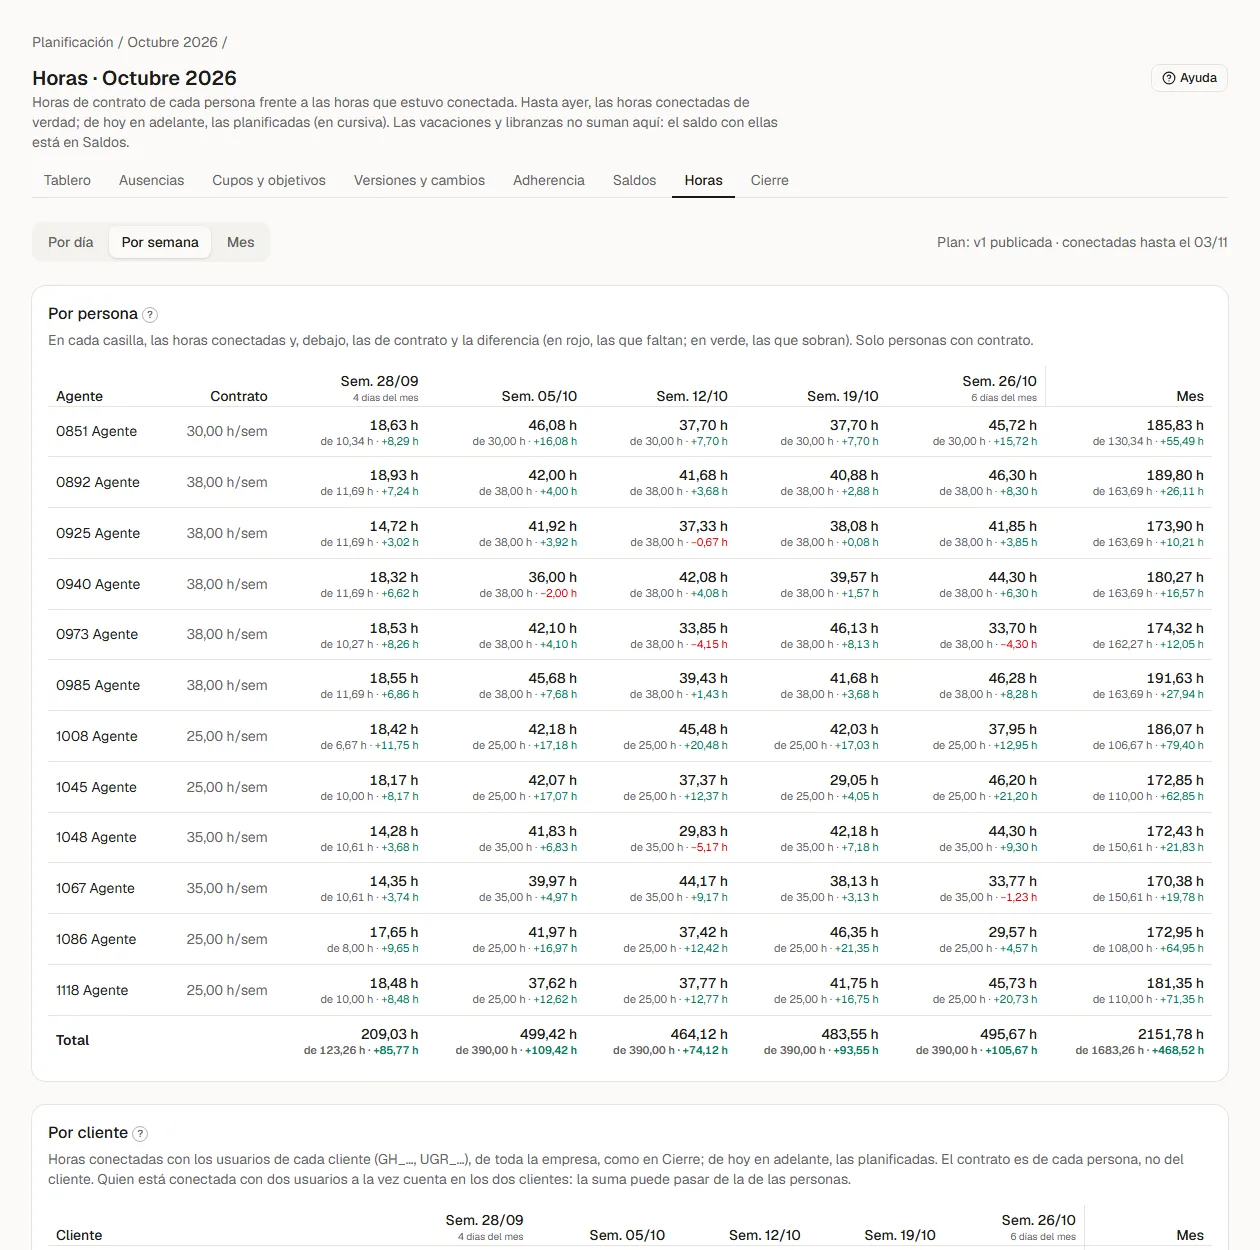
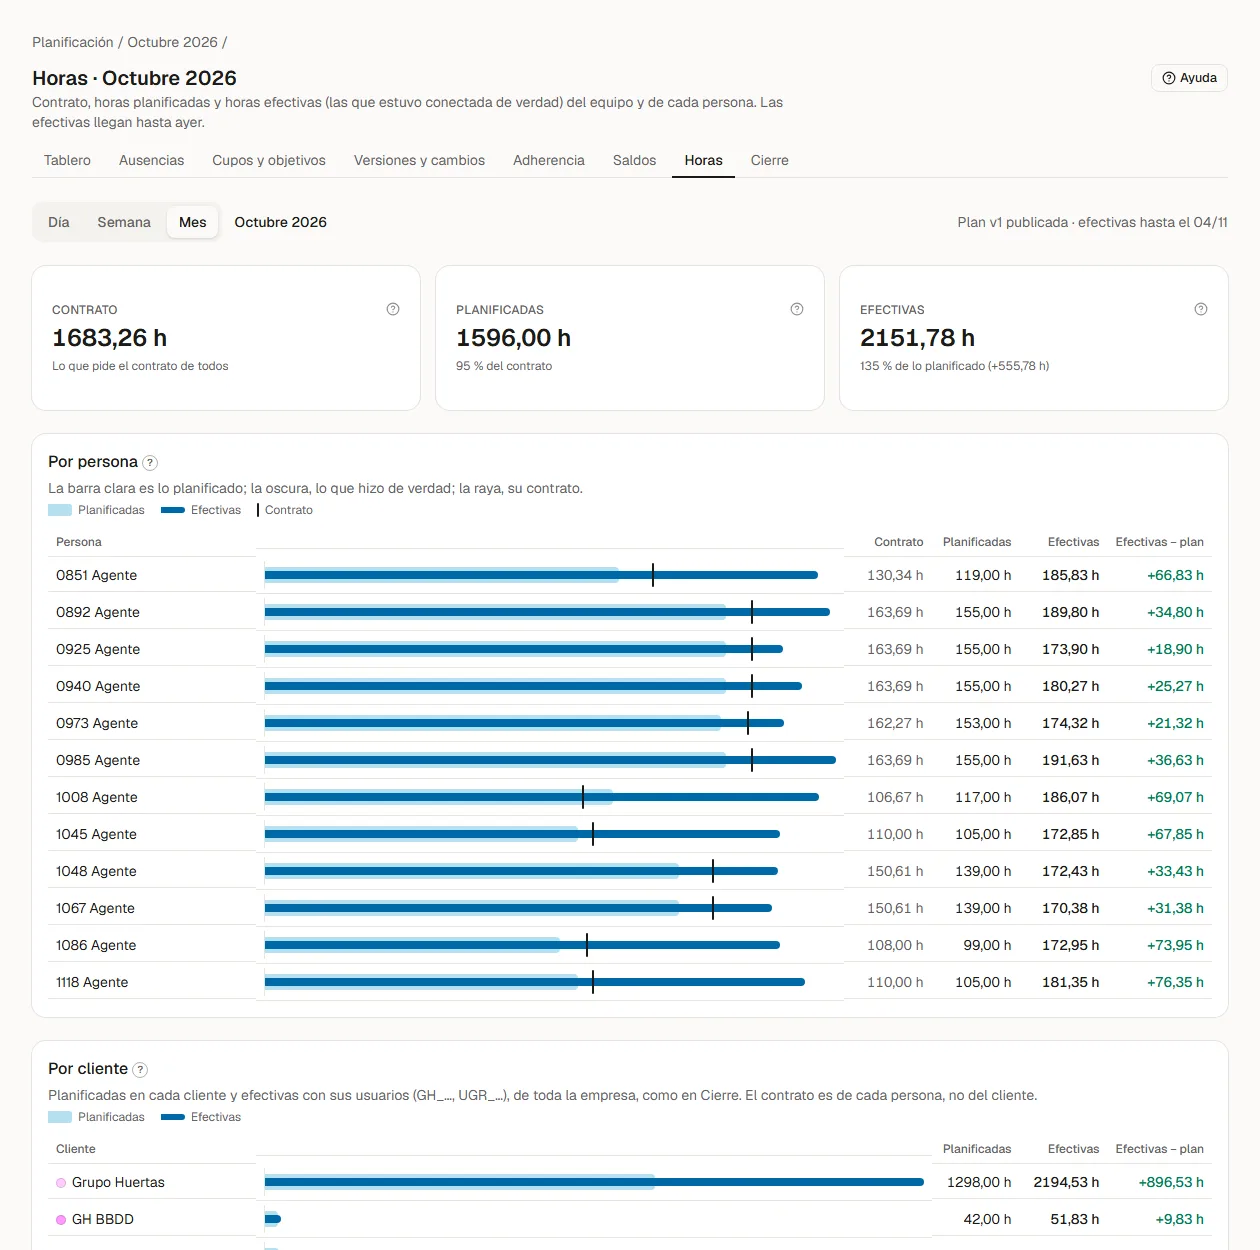
Horas: panel con contrato, planificadas y efectivas
Pedido por supervisión: la pestaña «Horas» del mes pasa a ser un panel de
un día, una semana o el mes (con flechas). Tres cajas con el total del
equipo y una barra por persona y por cliente: planificadas (claro),
efectivas hasta ayer (oscuro) y el contrato (una raya), con «Efectivas −
plan» frente a lo planificado de los días ya pasados. horasMes devuelve
planificadas y efectivas por separado. Ayuda y su captura al día.

Changed region(s): [[0.031, 0.1872, 0.9595, 1.0], [0.031, 0.0624, 0.619, 0.2184], [0.7738, 0.156, 0.9595, 0.2184]]

diff --git a/CLAUDE.md b/CLAUDE.md
@@ -945,15 +945,20 @@ en `.gitignore` y `.dockerignore`: nunca al repo ni a la imagen.
         del otro mes en gris y sin editar, con los bloques de su plan vigente
         (`DatosTablero.fuera`) o solo el turno si aún no tiene plan. Las horas y
         el saldo de la izquierda siguen siendo solo los del mes.
-    - **Horas** (pestaña del mes `/planificacion/[mes]/horas`, 04/11/2026,
-      pedida por supervisión): contrato del día frente a horas LOGADAS
-      (`user_log` de la persona, como el saldo) por día, semana o mes
-      (`?ver=dia|semana|mes`), hasta ayer lo real y después lo planificado en
-      cursiva; sin justificadas ni ajustes (eso es Saldos). Por cliente, las
-      horas de sus usuarios de toda la empresa (como Cierre) y lo planificado
-      después. `seguimiento.ts::horasMes` (reutiliza `saldoDelMes` con todos
-      los días del mes) y `lib/planificacion/horas.ts` (puro, con tests). Sin
-      Excel de momento (decidido 04/11/2026).
+    - **Horas** (pestaña del mes `/planificacion/[mes]/horas`, pedida por
+      supervisión el 04/11/2026; panel desde el 05/11): de un día, una semana
+      o el mes (`?ver=dia|semana|mes&p=<fecha o lunes>`, flechas; por
+      defecto la semana de hoy si el mes está en curso), tres cifras:
+      CONTRATO (el del día, motor/contrato.ts), PLANIFICADAS (plan vigente,
+      todo el periodo) y EFECTIVAS (`user_log` de la persona, como el saldo,
+      SOLO hasta ayer). Tres cajas con el total del equipo y una barra por
+      persona (planificadas claro, efectivas oscuro, una raya en el
+      contrato; mismo fondo para todas) con «Efectivas − plan», que compara
+      con lo planificado de los días YA pasados. Por cliente, igual sin
+      contrato (efectivas de sus usuarios de toda la empresa, como Cierre).
+      Sin justificadas ni ajustes (eso es Saldos). `seguimiento.ts::horasMes`
+      (reutiliza `saldoDelMes`: `plan` y `reales` por agente y día) y
+      `lib/planificacion/horas.ts` (puro, con tests). Sin Excel de momento.
     - **Cierre**: real = `user_log` de los usuarios de cada cliente; cuadra
       con facturación (GH 1.027,88 h en septiembre) y el grupo GH+BD+LX con el
       Excel de operaciones (1.384,22 h).

diff --git a/docs/registro-sesion-04-noviembre-2026.md b/docs/registro-sesion-04-noviembre-2026.md
@@ -176,6 +176,26 @@ del build; el tercero compiló. `verificar` sin errores. Comprobado desde
   «Dashboard TmSystem - npm run dev». `/login` responde 200 y no hay errores.
   Al arrancar, Next 16.4.2 reescribe `AGENTS.md` (un título de `#` a `##`).
 
+## 05/11: «Horas» como panel
+
+Supervisión pidió ver en «Horas» las planificadas, las efectivas y el
+contrato de forma «ágil y muy sencilla». La pestaña pasa a ser un panel:
+
+- Periodo arriba (Día, Semana, Mes y flechas); por defecto, la semana de hoy
+  si el mes está en curso y, si no, el mes.
+- Tres cajas con el total del equipo: contrato, planificadas (y su % del
+  contrato) y efectivas hasta ayer (y su % de lo planificado hasta ayer).
+- Una barra por persona: planificadas en azul claro, efectivas en azul
+  oscuro y una raya negra en el contrato, con el mismo fondo para todas; al
+  lado, las cifras y «Efectivas − plan» (frente a lo planificado de los días
+  ya pasados, en rojo o verde y con su signo). En «Día», el código de la
+  ausencia junto al nombre.
+- Por cliente, igual sin contrato.
+- `horasMes` devuelve ahora planificadas y efectivas por separado (antes,
+  una sola cifra: lo real hasta ayer y el plan después).
+- Ayuda, captura de «Horas» (modo demo), guía de Claude Docs y guía HTML al
+  día.
+
 ## Pendiente
 
 - Avisar a supervisión de que los saldos acumulados cambian.
